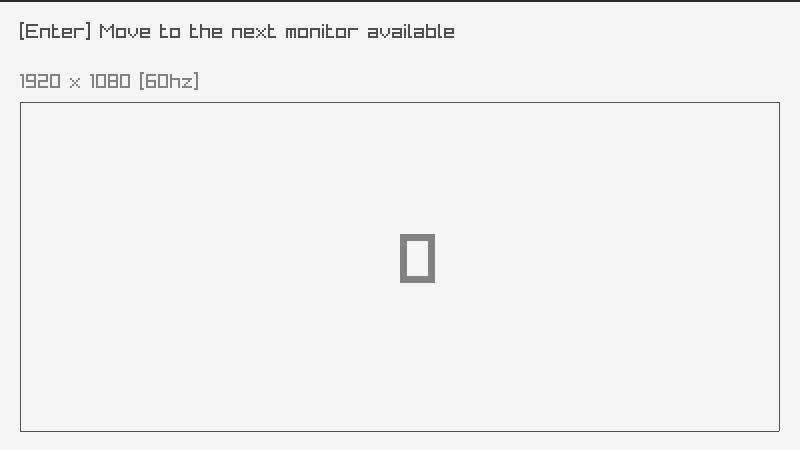
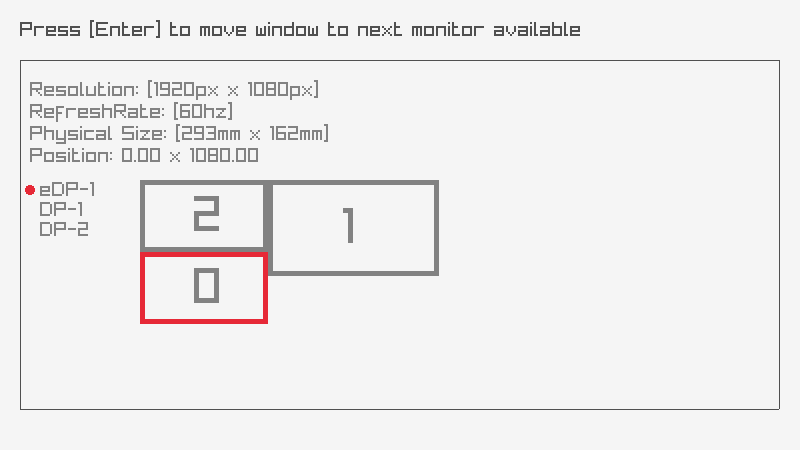
Add monitor drawing and more information

diff --git a/examples/core/core_monitor_change.c b/examples/core/core_monitor_change.c
@@ -17,6 +17,19 @@
 
 #include "raylib.h"
 
+#define MAX_MONITORS 10
+
+// Monitor Details
+typedef struct Monitor {
+    Vector2 position;
+    char *name;
+    int width;
+    int height;
+    int physicalWidth;
+    int physicalHeight;
+    int refreshRate;
+} Monitor;
+
 //------------------------------------------------------------------------------------
 // Program main entry point
 //------------------------------------------------------------------------------------
@@ -27,9 +40,12 @@ int main(void)
     const int screenWidth = 800;
     const int screenHeight = 450;
 
+    Monitor monitors[MAX_MONITORS] = { 0 };
+
     InitWindow(screenWidth, screenHeight, "raylib [core] example - monitor change");
 
-    int currentMonitor = GetCurrentMonitor();
+    int currentMonitorIndex = GetCurrentMonitor();
+    int monitorCount = 0;
 
     SetTargetFPS(60);               // Set our game to run at 60 frames-per-second
     //--------------------------------------------------------------------------------------
@@ -40,18 +56,43 @@ int main(void)
         // Update
         //----------------------------------------------------------------------------------
 
-        if (IsKeyPressed(KEY_ENTER)) {
-            currentMonitor += 1;
-            if(currentMonitor == GetMonitorCount()) {
-                currentMonitor = 0;
+        // Rebuild monitors array with the new monitor count
+        if (monitorCount != GetMonitorCount())
+        {
+            monitorCount = GetMonitorCount();
+            for (int i = 0; i < monitorCount; i++)
+            {
+                monitors[i] = (Monitor){
+                    GetMonitorPosition(i), 
+                    GetMonitorName(i), 
+                    GetMonitorWidth(i),
+                    GetMonitorHeight(i),
+                    GetMonitorPhysicalWidth(i),
+                    GetMonitorPhysicalHeight(i),
+                    GetMonitorRefreshRate(i)
+                };
             }
-            SetWindowMonitor(currentMonitor);
-        } else {
-            currentMonitor = GetCurrentMonitor();
         }
-        
-        const Vector2 resolution = (Vector2){(float)GetMonitorWidth(currentMonitor), (float)GetMonitorHeight(currentMonitor)};
-        const int refreshRate = GetMonitorRefreshRate(currentMonitor);
+
+        if (IsKeyPressed(KEY_ENTER) && monitorCount > 1) 
+        {
+            currentMonitorIndex += 1;
+
+            // Set index to 0 if the last one
+            if(currentMonitorIndex == GetMonitorCount()) 
+            {
+                currentMonitorIndex = 0;
+            }
+            SetWindowMonitor(currentMonitorIndex); // Move window to currentMonitorIndex
+        }
+        else 
+        {
+            // Get currentMonitorIndex if manually moved
+            currentMonitorIndex = GetCurrentMonitor();
+        }
+        const Monitor currentMonitor = monitors[currentMonitorIndex];
+
+        const float monitorScale = 0.2 / monitorCount; 
 
         // Draw
         //----------------------------------------------------------------------------------
@@ -59,16 +100,50 @@ int main(void)
 
             ClearBackground(RAYWHITE);
 
-            DrawText("[Enter] Move to the next monitor available", 20, 20, 20, DARKGRAY);
+            DrawText("Press [Enter] to move window to next monitor available", 20, 20, 20, DARKGRAY);
 
             DrawText(
-                TextFormat("%3.0f x %3.0f [%ihz]", 
-                    resolution.x, 
-                    resolution.y,
-                    refreshRate
-                ), 20, 70, 20, GRAY);
-            DrawText(TextFormat("%i", currentMonitor), screenWidth * 0.5, screenHeight * 0.5, 70, GRAY);
-            DrawRectangleLines(20, 100, screenWidth - 40, screenHeight - 120, DARKGRAY);
+                TextFormat("Resolution: [%ipx x %ipx]\nRefreshRate: [%ihz]\nPhysical Size: [%imm x %imm]\nPosition: %3.2f x %3.2f", 
+                    currentMonitor.width, 
+                    currentMonitor.height, 
+                    currentMonitor.refreshRate,
+                    currentMonitor.physicalWidth,
+                    currentMonitor.physicalHeight,
+                    currentMonitor.position.x,
+                    currentMonitor.position.y
+                ), 30, 80, 20, GRAY);
+
+            // List available Monitors
+            for (int i = 0; i < monitorCount; i++)
+            {
+                DrawText(TextFormat("%s", monitors[i].name), 40, 180 + 20*i, 20, GRAY);
+                if (i == currentMonitorIndex)
+                {
+                    DrawCircle(30, 190 + 20*i, 5, RED);
+                }
+            }
+            DrawRectangleLines(20, 60, screenWidth - 40, screenHeight - 100, DARKGRAY);
+
+            // Draw Monitors
+            for (int i = 0; i < monitorCount; i++)
+            {
+                const Rectangle rec = (Rectangle){
+                    monitors[i].position.x * monitorScale + 140,
+                    monitors[i].position.y * monitorScale + 180,
+                    monitors[i].width * monitorScale,
+                    monitors[i].height * monitorScale
+                };
+                if (i == currentMonitorIndex)
+                {
+                    DrawRectangleLinesEx(rec, 5, RED);
+                }
+                else
+                {
+                    DrawRectangleLinesEx(rec, 5, GRAY);
+                }
+                DrawText(TextFormat("%i", i), rec.x + rec.width * 0.5 - 10, rec.y + rec.height * 0.5 - 25, 50, GRAY);
+
+            }
 
 
         EndDrawing();
